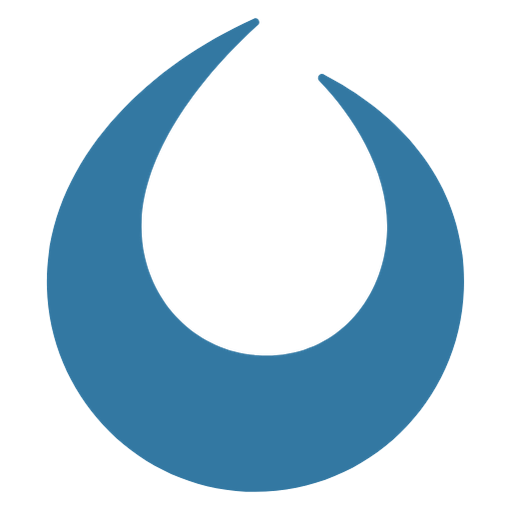
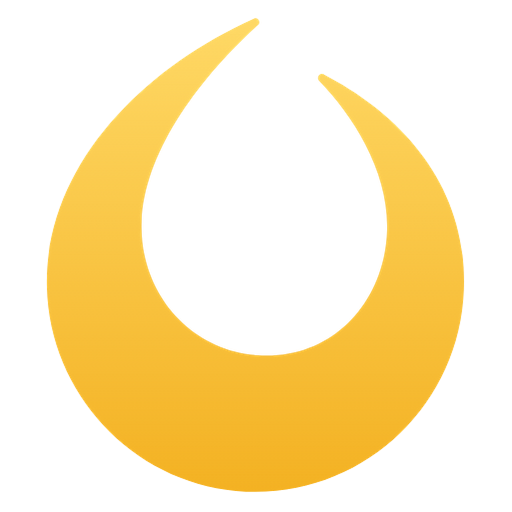
Borin Client Finder: icona gialla e colore della scheda in giallo

diff --git a/borin-client-finder.html b/borin-client-finder.html
@@ -10,7 +10,7 @@
   <link rel="stylesheet" href="https://fonts.googleapis.com/css2?family=Red+Hat+Display:wght@700;800&family=Red+Hat+Mono:wght@500&family=Red+Hat+Text:wght@400;600;700&display=swap">
   <link rel="stylesheet" href="stile.css">
 </head>
-<body class="tinted" style="--accent-l:#2F6E96; --accent-d:#6FB2DE">
+<body class="tinted" style="--accent-l:#8F6200; --accent-d:#F7BE3A">
   <header class="hero">
     <div class="wrap">
       <nav class="crumbs" aria-label="Percorso"><a href="index.html">← Tutti i programmi</a></nav>

diff --git a/index.html b/index.html
@@ -70,7 +70,7 @@
         </div>
       </li>
 
-      <li class="program tinted" style="--accent-l:#2F6E96; --accent-d:#6FB2DE">
+      <li class="program tinted" style="--accent-l:#8F6200; --accent-d:#F7BE3A">
         <img class="app-icon" src="img/borin-client-finder.png" alt="" width="72" height="72">
         <div>
           <h2><a href="borin-client-finder.html">Borin Client Finder</a></h2>
